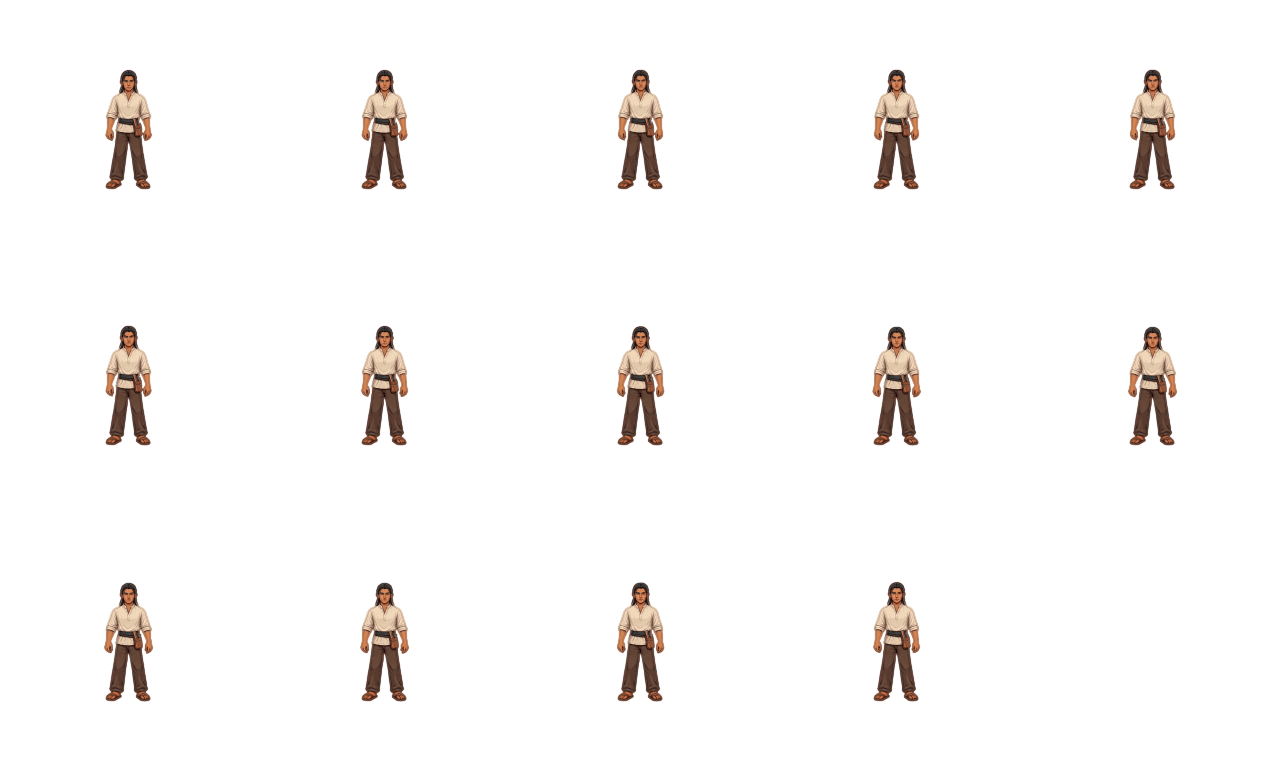
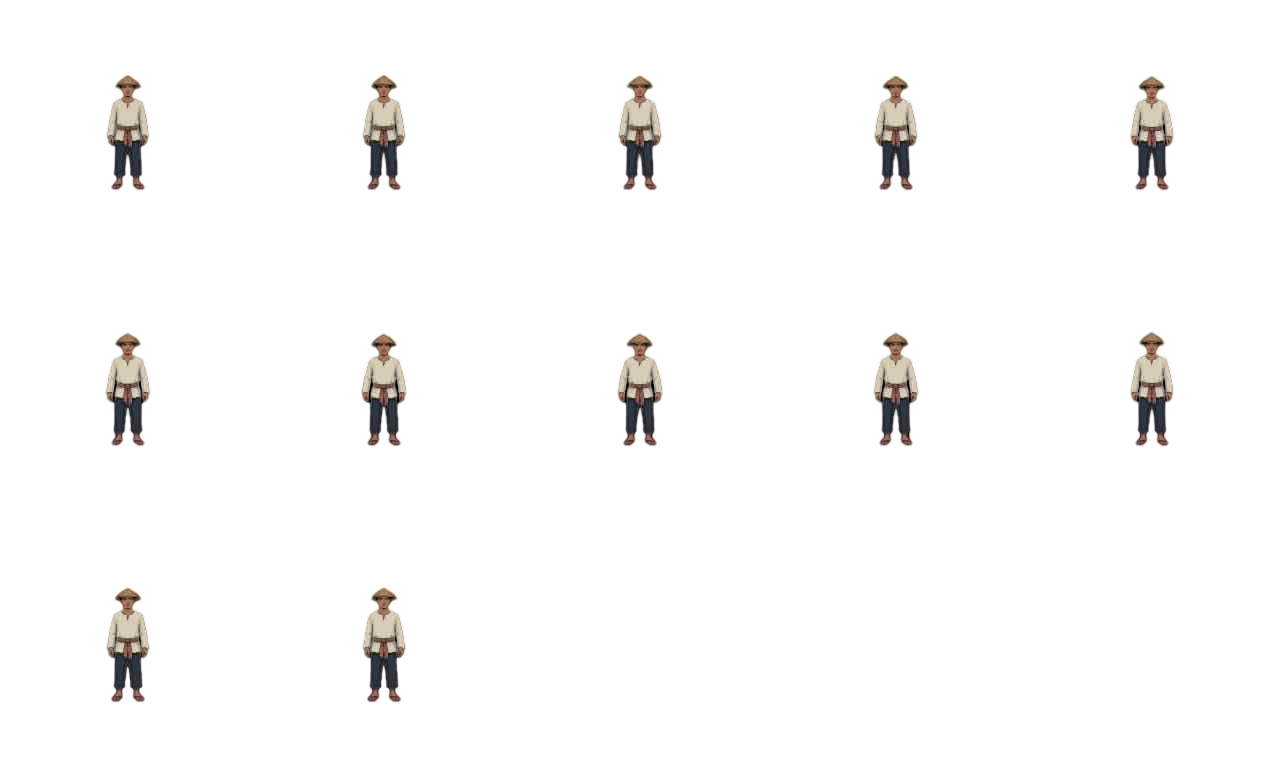
added 3 sprites

diff --git a/_dev/verify_new_scene.js b/_dev/verify_new_scene.js
@@ -14,7 +14,7 @@ const path = require("path");
 const ROOT = path.resolve(__dirname, "..");
 const PORT = 8096;
 const STUB = fs.readFileSync(path.join(__dirname, "sb-stub.js"), "utf8");
-const MIME = { ".html": "text/html", ".js": "text/javascript", ".css": "text/css", ".png": "image/png", ".mp3": "audio/mpeg" };
+const MIME = { ".html": "text/html", ".js": "text/javascript", ".css": "text/css", ".png": "image/png", ".jpg": "image/jpeg", ".mp3": "audio/mpeg" };
 
 const server = http.createServer((req, res) => {
   const rel = decodeURIComponent(req.url.split("?")[0]).replace(/^\/+/, "");
@@ -118,6 +118,8 @@ const talk = async (page, times) => {
   await page.waitForTimeout(900);
   const inKutsero = await page.evaluate(() => ({ room: currentRoom, grey: document.getElementById("skyline").classList.contains("grey-filter") }));
   ok("landed in the kutsero scene, greyed out", inKutsero.room === "kutsero" && inKutsero.grey, inKutsero);
+  ok("the ground is greyed with it (Block 33)",
+     await page.evaluate(() => getComputedStyle(document.getElementById("ground-tiles")).filter === "grayscale(1)"));
   const memoryLine = await page.evaluate(() => ({ open: inDialogue, speaker: dialogueSpeaker.textContent, text: dialogueText.textContent }));
   ok("the memory opens with Nanay's voice after the fade-in",
      memoryLine.open && memoryLine.speaker === "Nanay" && memoryLine.text === "Ilang taon ka nga noon?...", memoryLine);
@@ -139,6 +141,17 @@ const talk = async (page, times) => {
   });
   ok("Kutsero draws his sprite sheet, not the placeholder box",
      kutseroArt.bg.includes("Kutsero.png") && kutseroArt.text === "", kutseroArt);
+  // Block 33: the Tindero and the ground have real art too.
+  const moreArt = await page.evaluate(() => {
+    const t = document.querySelector("#npc-tindero .sprite");
+    const g = document.getElementById("ground-tiles");
+    return { tindero: t.style.backgroundImage, tText: t.textContent,
+             ground: getComputedStyle(g).backgroundImage, gText: g.textContent };
+  });
+  ok("Tindero draws Tindero.png, not the placeholder box",
+     moreArt.tindero.includes("Tindero.png") && moreArt.tText === "", moreArt);
+  ok("the ground is Lupa.jpg, not the missing-file placeholder",
+     moreArt.ground.includes("Lupa.jpg") && moreArt.gText === "", moreArt);
 
   // --- Kabayo's art and sound (Block 30). ---
   const kabayoArt = await page.evaluate(() => {
@@ -331,6 +344,8 @@ const talk = async (page, times) => {
   }));
   ok("the memory ends back in tondo", afterGift.room === "tondo", afterGift);
   ok("no longer greyed out", afterGift.grey === false, afterGift);
+  ok("and neither is the ground",
+     await page.evaluate(() => getComputedStyle(document.getElementById("ground-tiles")).filter === "none"));
   ok("the third objective's flag is set", afterGift.flag === true, afterGift);
   ok("the apple quest is marked done in the log", afterGift.questDone && afterGift.questDone.done === true, afterGift.questDone);
   ok("a new, open quest to reach the entablado is logged", afterGift.entabladoQuest && afterGift.entabladoQuest.done === false, afterGift.entabladoQuest);

diff --git a/content/act1.js b/content/act1.js
@@ -79,12 +79,10 @@
 // where her feet are across the cell, which is the point game.js
 // stands on the middle of her body (CLAUDE.md, Bodies, Block 24).
 //
-// Kutsero (Block 27) and Kabayo (Block 30) have real art in
-// Assets/Act 1/. Tindero still has none: img points at
-// Assets/Tindero.png, which does not exist, so he falls back to the
-// dashed placeholder box naming the file, the same fallback every
-// other missing image in this project uses. Nothing needs wiring once
-// that file lands in Assets/ under that name.
+// Kutsero, Kabayo and Tindero have real art in Assets/Act 1/ (Block 33
+// sorted out a Kutsero and Tindero mix-up in the file names). The
+// Mananahi has none yet and draws as the dashed placeholder box naming
+// her file.
 // =============================================================
 
 window.ACT_1 = {
@@ -368,13 +366,14 @@ window.ACT_1 = {
           id: "kutsero",
           x: 750,
           label: "Kutsero",
-          // Real commissioned art (Block 27): a 5 by 3 sheet, 14 of its 15
-          // cells used, measured with _dev/measure-sprite.js the same way
-          // Nanay's was. He faces the camera, so there is no facing to get
-          // wrong from either side.
+          // Real art. Block 27 wired in a sheet that turned out to be the
+          // Tindero, saved under this name by mistake; Block 33 has the
+          // real kutsero (straw hat, sash): a 5 by 3 sheet, 12 of its 15
+          // cells used, measured with _dev/measure-sprite.js. Front-facing,
+          // so no facing to get wrong from either side.
           animation: {
-            src: "Assets/Act 1/Kutsero.png", frames: 14, fps: 6, columns: 5,
-            contentTop: 69, contentHeight: 121, footX: 128,
+            src: "Assets/Act 1/Kutsero.png", frames: 12, fps: 6, columns: 5,
+            contentTop: 74, contentHeight: 117, footX: 128,
           },
           stage: 0,
           dialogueSets: [
@@ -415,7 +414,13 @@ window.ACT_1 = {
           id: "tindero",
           x: 1950,
           label: "Tindero",
-          img: "Assets/Tindero.png",
+          // Block 33. The sheet Block 27 shipped as Kutsero.png, renamed by
+          // the artist to what it always was: 5 by 3, 14 of 15 cells, the
+          // same numbers it was measured with then (remeasured, unchanged).
+          animation: {
+            src: "Assets/Act 1/Tindero.png", frames: 14, fps: 6, columns: 5,
+            contentTop: 69, contentHeight: 121, footX: 128,
+          },
           opensShop: true,
         },
       ],

diff --git a/style.css b/style.css
@@ -271,33 +271,37 @@ html, body {
    flashback/memory beat that reuses Act 1's one piece of backdrop art.
    Swapped under cover of #blackout (see fadeToScene, game.js), so no
    transition is needed here the way #skyline-night has one. */
-#skyline.grey-filter {
+#skyline.grey-filter,
+#ground-tiles.grey-filter {
   filter: grayscale(1);
 }
 
-/* Ground: a repeating cement tile texture sitting in front of the
-   skyline backdrop, right where characters stand. A dark gradient is
-   layered on top so the very bottom row of tiles fades to black —
-   gives it a natural sense of depth instead of a hard cutoff.
-   TILE_SIZE controls how big each tile renders, and the band height
-   is locked to exactly 2 rows (2 * TILE_SIZE) — bump TILE_SIZE if you
-   want the tiles bigger/smaller. Height matches --ground-level exactly
-   so the top of the tiles sits right at the character's feet. */
+/* Ground: a repeating earth texture (Lupa.jpg, Block 33) sitting in front
+   of the skyline backdrop, right where characters stand. A dark gradient
+   is layered on top so the bottom of the band fades to black, for depth
+   instead of a hard cutoff. The band height matches --ground-level
+   exactly so its top sits at the characters' feet.
+
+   Lupa.jpg is a 447px seamless texture of soft blotches, not tiles, so it
+   is drawn at 120px, twice the band's height. At the 30px the old cement
+   tile used, the blotches shrank past seeing and the ground read as a
+   flat brown strip. Nothing in the texture lines up with the band, so
+   the band showing the top half of each repeat is fine. */
 #ground-tiles {
   position: absolute;
   left: 0;
   bottom: 0;
   width: 100%;
-  height: 60px; /* 2 rows of 30px tiles, matches --ground-level */
+  height: 60px; /* matches --ground-level */
   background-image: linear-gradient(
       to bottom,
       rgba(0, 0, 0, 0) 0%,
       rgba(0, 0, 0, 0) 45%,
       rgba(0, 0, 0, 0.95) 100%
     ),
-    url("Assets/Cement_Tile.png");
+    url("Assets/Act 1/Lupa.jpg");
   background-repeat: no-repeat, repeat;
-  background-size: 100% 100%, 30px 30px;
+  background-size: 100% 100%, 120px 120px;
 }
 
 /* An .entity's own box is the character's BODY: game.js's mountBody sets

diff --git a/game.js b/game.js
@@ -210,7 +210,7 @@ function difficultyMultiplier(actNumber) {
 // Images had no version at all, so browsers and the GitHub Pages CDN
 // kept serving stale sprites indefinitely after a file was swapped.
 // Every image load goes through assetUrl() so one number refreshes them all.
-const ASSET_VERSION = 11;
+const ASSET_VERSION = 12;
 
 function assetUrl(path) {
   if (!path) return path;
@@ -387,6 +387,12 @@ function loadScene(sceneId) {
   // grey.
   document
     .getElementById("skyline")
+    .classList.toggle("grey-filter", Boolean(scene.greyFilter));
+  // The ground is part of the backdrop too. It was a missing-file
+  // placeholder until Lupa.jpg (Block 33), so nobody saw a brown road
+  // under a grey memory until then. Characters stay in colour, as before.
+  document
+    .getElementById("ground-tiles")
     .classList.toggle("grey-filter", Boolean(scene.greyFilter));
 
   buildSkylineTiles();
@@ -629,8 +635,8 @@ checkBackgroundImage(
 );
 checkBackgroundImage(
   document.getElementById("ground-tiles"),
-  "Assets/Cement_Tile.png",
-  "Assets/Cement_Tile.png"
+  "Assets/Act 1/Lupa.jpg",
+  "Assets/Act 1/Lupa.jpg"
 );
 
 function setupNpcAnimation(sheet, el, displayHeight, token, bodyWidth) {

diff --git a/index.html b/index.html
@@ -4,7 +4,7 @@
   <meta charset="UTF-8" />
   <meta name="viewport" content="width=device-width, initial-scale=1.0, user-scalable=no" />
   <title>Long Road</title>
-  <link rel="stylesheet" href="style.css?v=23" />
+  <link rel="stylesheet" href="style.css?v=24" />
 </head>
 <body>
   <!-- ICON SPRITE.
@@ -409,12 +409,12 @@
        back except the one guarded awaitEntry call in game.js. -->
   <script src="https://cdn.jsdelivr.net/npm/@supabase/supabase-js@2"></script>
   <script src="supabaseClient.js"></script>
-  <script src="content/act1.js?v=22"></script>
+  <script src="content/act1.js?v=23"></script>
   <script src="content/act2.js?v=1"></script>
   <script src="content/act3.js?v=1"></script>
   <script src="content/act4.js?v=1"></script>
   <script src="content/items.js?v=7"></script>
-  <script src="game.js?v=39"></script>
+  <script src="game.js?v=40"></script>
   <script src="acts.js?v=9"></script>
   <script src="inventory.js?v=8"></script>
   <script src="assessment.js?v=3"></script>

diff --git a/TRACKER.md b/TRACKER.md
@@ -22,12 +22,12 @@ CLAUDE.md, Decisions on record, and in git history.
 
 Status markers: (COMPLETE), (IN PROGRESS), (NOT STARTED), (BLOCKED).
 
-Last updated: 17 Sep 2026, after Block 32 (the first equipment, the
-tailor quest, Nanay's rewritten opening). Blocks 22 to 29 were audited against GitHub main
-(commit 58f4a43, "UI Overhaul") earlier the same day. Blocks 30 to 32
+Last updated: 17 Sep 2026, after Block 33 (Kutsero and Tindero art
+sorted out, Lupa.jpg ground). Blocks 22 to 29 were audited against GitHub main
+(commit 58f4a43, "UI Overhaul") earlier the same day. Blocks 30 to 33
 were written to the device folder; whether they are pushed is not
 recorded. The suite was run against the device folder's files: 476
-passed, 0 failed; _dev/verify_new_scene.js 68 passed, 0 failed.
+passed, 0 failed; _dev/verify_new_scene.js 72 passed, 0 failed.
 
 ## Start here
 
@@ -88,18 +88,18 @@ default. Intense.mp3 is in Assets/Prefab and unused on purpose.
 
 Current versions, which index.html must match on every push:
 
-    style.css v23        game.js v39          shell.js v13
+    style.css v24        game.js v40          shell.js v13
     inventory.js v8      acts.js v9           assessment.js v3
-    content/act1.js v22  content/items.js v7  content/act2-4.js v1
-    ASSET_VERSION 11 (in game.js)
+    content/act1.js v23  content/items.js v7  content/act2-4.js v1
+    ASSET_VERSION 12 (in game.js)
 
-Nothing from Blocks 14 to 32 has been seen on a phone. Everything in
+Nothing from Blocks 14 to 33 has been seen on a phone. Everything in
 that range is verified headlessly only. A device pass is owed before
 the pilot; the checklist is under Next action.
 
 ## Right now
 
-Blocks 1 to 32 are built. Blocks 22 to 32 were all this session, each
+Blocks 1 to 33 are built. Blocks 22 to 33 were all this session, each
 on direct feedback from the proponent:
 
     22  NPC reach measured edge to edge; Mansanas made a consumable
@@ -124,13 +124,15 @@ on direct feedback from the proponent:
         stillDetectionMult; soldBy stock per seller; opensShopAfter;
         200 barya from Nanay; the tailor quest (fifth objective);
         Nanay's opening rewritten
+    33  the real Kutsero sheet; the old one renamed Tindero and wired
+        in; Lupa.jpg as the ground, greyed in the memory
 
-Push Blocks 30 to 32 together, with every file below in the same
+Push Blocks 30 to 33 together, with every file below in the same
 commit, or the ?v=N numbers will not match: game.js, shell.js,
-inventory.js, index.html, content/act1.js, content/items.js,
+inventory.js, style.css, index.html, content/act1.js, content/items.js,
 CLAUDE.md, TRACKER.md, _dev/test.js, _dev/verify_new_scene.js, and the
-new files in Assets/
-(Act 1/Horse.png, Act 1/Horse.mp3, Prefab/Calm.mp3,
+new and renamed files in Assets/ (Act 1/Kutsero.png, Act 1/Tindero.png,
+Act 1/Lupa.jpg, Act 1/Horse.png, Act 1/Horse.mp3, Prefab/Calm.mp3,
 Prefab/Gun_Shot.mp3; Intense.mp3 and Act 1/Entablado.png may go too,
 nothing loads them yet).
 
@@ -143,8 +145,8 @@ changed meaning; whether it has been is not recorded.
 
 In order.
 
-1. Push Blocks 30 to 32 (see Right now for the file list), then a
-device pass on Blocks 14 to 32, on the phone, in landscape, from a private tab
+1. Push Blocks 30 to 33 (see Right now for the file list), then a
+device pass on Blocks 14 to 33, on the phone, in landscape, from a private tab
 (browsers cache index.html; see Known problems). Check:
 
     Title, pause, settings: pixel fonts show (not plain monospace,
@@ -194,7 +196,7 @@ cutscene mechanic; see CLAUDE.md.
 3. Remaining art, chased with the artist: Mananahi.png (Assets/Act 1/),
 Damit_Entablado.png (Assets/Act 1/, the clothes' tile picture; outfit
 sheets later if he should look different wearing them),
-Tindero.png, Macario's Dead sheet, Cement_Tile.png (ground), and
+Macario's Dead sheet, and
 Mansanas.png (item icon; the apple symbol stands in). Each new sheet
 needs measure-sprite.js and all three numbers pasted.
 
@@ -451,8 +453,8 @@ rather than shown a document.
 The same rule already applies to the consent waiver, and for the same
 reason: get it in writing and keep the two together. (NOT STARTED)
 
-Chase the remaining art with the artist: Mananahi.png, Tindero.png,
-Macario's Dead sheet, Cement_Tile.png and Mansanas.png (see Known
+Chase the remaining art with the artist: Mananahi.png, Damit_Entablado.png,
+Macario's Dead sheet and Mansanas.png (see Known
 problems for where each shows). Later, once real items and the entablado
 content are decided, the art they need. (NOT STARTED)
 
@@ -471,7 +473,7 @@ trip to the SQL editor. Do not add a study account. (NOT STARTED)
 ## Known problems
 
 Missing production art. Assets/ holds real art for Nanay, Kutsero,
-Kabayo, Tondo.png, and Macario's idle, walk, melee and shooting sheets,
+Kabayo, Tindero, Tondo.png, Lupa.jpg (the ground), and Macario's idle, walk, melee and shooting sheets,
 plus the two fonts and four sound files. Assets/Act 1/Entablado.png
 also exists and is not referenced by anything yet; it is presumably for
 the entablado beat (Next action, item 2). Still missing, each falling
@@ -481,16 +483,13 @@ to its symbol):
     Assets/Act 1/Mananahi.png  the Mananahi, on the tondo road
     Assets/Act 1/Damit_Entablado.png  the stage clothes' tile (the shirt
                                symbol stands in)
-    Assets/Tindero.png         Tindero, in the kutsero scene
     Assets/Dead.png            Macario's death pose
-    Assets/Cement_Tile.png     the ground strip; its placeholder is the
-                               dashed line along the bottom of the world
     Assets/Mansanas.png        the apple tile in the shop and inventory
     Assets/Act 1/Tondo_Night.png  night backdrop; no shipped scene
                                switches to night yet, so nothing shows
 
 Nothing in the suite fails for these; only verify_new_scene.js checks
-that named NPCs (Kutsero, Kabayo) draw real art. (KNOWN)
+that named NPCs (Kutsero, Kabayo, Tindero) and the ground draw real art. (KNOWN)
 
 Browsers cache index.html. It carries no version number of its own, so
 a phone that loaded an old copy keeps requesting the old ?v=N files

diff --git a/CLAUDE.md b/CLAUDE.md
@@ -285,7 +285,7 @@ Scene shape:
       id,                                        persisted as current_room
       worldWidth, startX,
       dangerous: true,                           optional; shows the hearts
-      greyFilter: true,                          optional; desaturates #skyline
+      greyFilter: true,                          optional; greys backdrop + ground
       arrivalDialogues: [{ requiresFlag,         optional; opens by itself
                            doneFlag, x, facing,  after a fade into the scene
                            lines, onComplete }],
@@ -2016,7 +2016,8 @@ join must differ no more than columns either side of nearby points in the
 same painting. The same check fails against unmirrored tiles (about twice
 the nearby difference), so it can tell a seam from no seam.
 
-Melee clip and Kutsero's art (Block 27). Two commissioned sheets
+Melee clip and Kutsero's art (Block 27; the Kutsero sheet turned out to be
+the Tindero's, see Block 33). Two commissioned sheets
 arrived: Assets/Prefab/Macario_Melee.jpg (4 by 3, 12 frames, a punch)
 and Assets/Act 1/Kutsero.png (5 by 3, 14 frames, a front-facing idle).
 Both were measured with measure-sprite.js. The melee sheet is a PNG with
@@ -2199,6 +2200,25 @@ against the fixture guard by driving updateGuards directly.
 
 The fifth objective changes Act I's drip to floor(50 / 5) = 10 a
 objective, which is what the fixture act already used.
+
+Art sorted out (Block 33). The sheet shipped as Kutsero.png in Block 27
+was the Tindero, misnamed. The artist renamed it Tindero.png and delivered
+the real kutsero (straw hat, sash) as Kutsero.png: 5 by 3, 12 frames,
+contentTop 74, contentHeight 117, footX 128. Tindero's sheet was
+remeasured and is unchanged (14 frames, 69, 121, 128); he is now an
+animation def instead of a missing static img. The pitfall this is an
+instance of: a file name is not evidence of what is drawn in it, so a
+new sheet is looked at, not only measured.
+
+The ground is Assets/Act 1/Lupa.jpg, replacing the Cement_Tile.png the
+CSS had named since before any art existed. It is a 447px seamless
+texture (edge columns differ from each other by about as much as any two
+neighbouring columns), drawn at 120px rather than the old 30px tile size
+so its blotches stay visible. With real ground under a greyed memory
+the road was still brown, so greyFilter now greys #ground-tiles along
+with #skyline. Characters stay in colour, as they always have.
+ASSET_VERSION to 12, which also stops phones serving the old picture
+cached under Kutsero.png.
 
 ## Pitfalls
 
